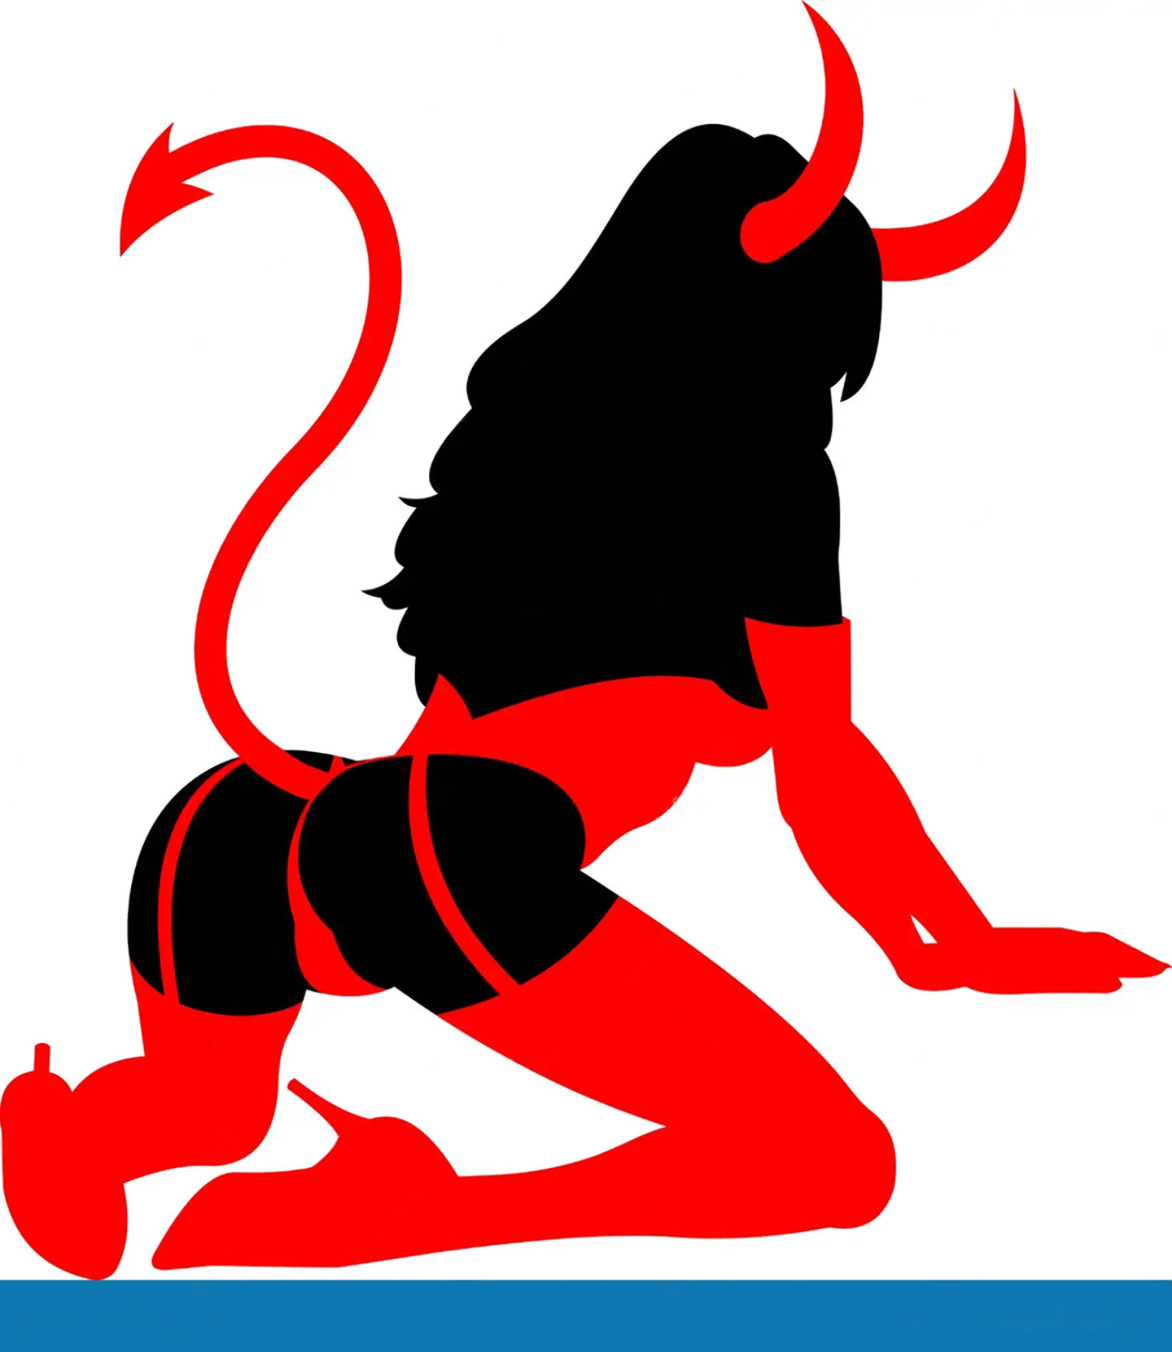
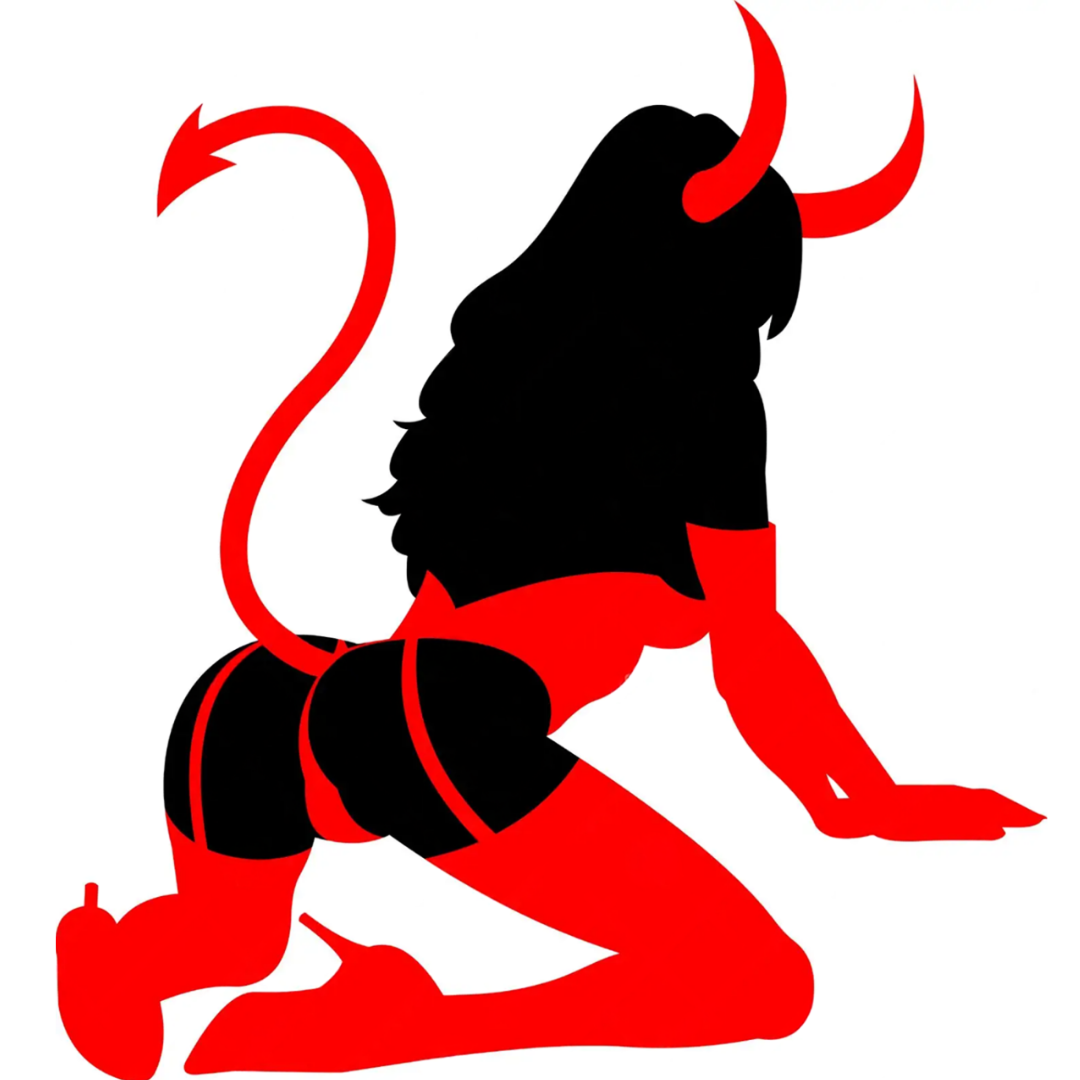
añadidas nuevas imagenes e iconos

Changed region(s): [[0.0, 0.0, 1.0, 1.0]]

diff --git a/index.html b/index.html
@@ -135,11 +135,24 @@
         </section>
 
         <section class="intro-img">
-            <img src="1.png" />
+            <img src="3.png" />
         </section>
 
     </section>
 
+
+
+     <section class="iconos">
+        <div class="icon"><img src="11.png" alt="" srcset=""></div>
+        
+        <div class="icon"><img src="1.png" alt="Foto 1"></div>
+        
+        
+        <div class="icon"><img src="https://xonomax.com/cdn/shop/files/q4137.jpg?v=1732028343&width=416" alt="" srcset=""></div>
+       
+
+
+    </section>
 
 
     <footer>
